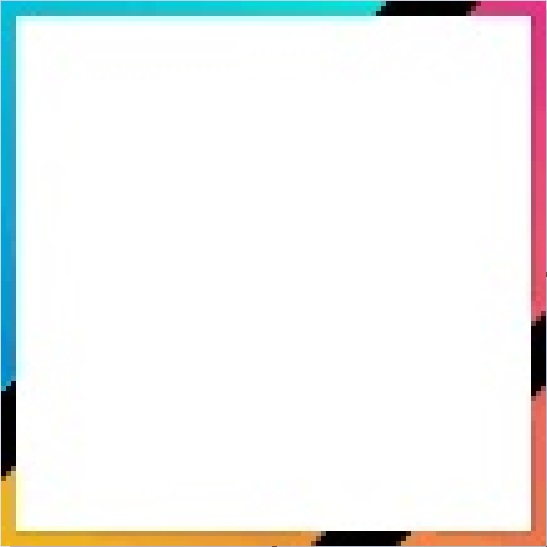
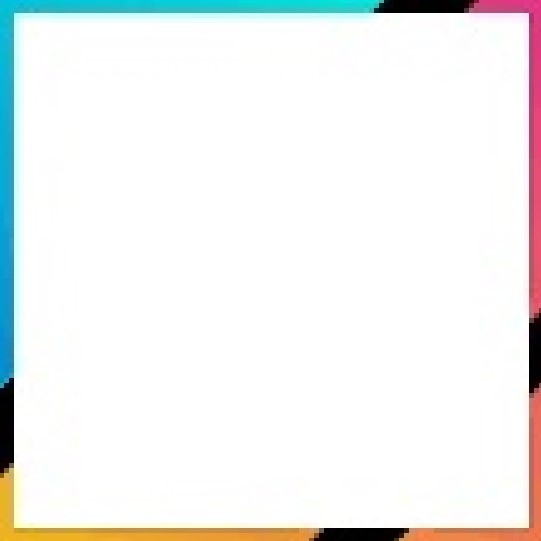
27
27

Changed region(s): [[0.0, 0.0, 1.0, 1.0]]

diff --git a/index.html b/index.html
@@ -140,9 +140,9 @@
 				<p class="titolosport">FORMULA 1</p>
 				<p align="justify">
 				<img src="images/1.jpg" align="right" >
-			Il quattro volte campione di Formula 1 - Sebastian Vettel - ha commentato il suo addio alla Ferrari dopo cinque stagioni, che sarebbero sei calcolando anche quella attuale che non è però ancora iniziata a causa dell'emergenza legata al coronavirus.
-			Ricordiamo che il pilota tedesco 32enne non è mai riuscito a salire sul tetto del mondo con la Rossa, ma è comunque stato in grado di vincere 14 gare sulle 53 totali conquistate finora nella sua carriera.
-			«La squadra e io ci siamo accorti che non c'era più il desiderio di proseguire insieme dopo il termine della corrente stagione. Gli aspetti finanziari non hanno giocato nessun ruolo in questa decisione presa di comune accordo. 
+			Il quattro volte campione di Formula 1 - Sebastian Vettel - ha com<br>mentato il suo addio alla Ferrari dopo cinque stagioni, che sarebbe<br>ro sei calcolando anche quella attuale che non è però ancora inizia<br>ta a causa dell'emergenza legata al coronavirus.
+			Ricordiamo che il pilota tedesco 32enne non è mai riuscito a salire sul tetto del mon<br>do con la Rossa, ma è comunque stato in grado di vincere 14 gare sulle 53 totali conquistate finora nella sua carriera.
+			«La squadra e <br>io ci siamo accorti che non c'era più il desiderio di proseguire ins<br>ieme dopo il termine della corrente stagione. Gli aspetti finanziari non hanno giocato nessun ruolo in questa decisione presa di comu<br>ne accordo. 
 			Quando faccio certe scelte non penso mai a queste cose e non succederà nemmeno in futuro», ha reagito proprio Vettel. «Ciò che è successo in questi ultimi mesi ha portato molti di noi a riflettere su quelle che sono le nostre priorità nella vita. 
 			Bisogna avere fantasia e adottare un nuovo approccio per riuscire a gestire al meglio una situazione che è cambiata. Mi prenderò tutto il tempo necessario per capire cosa conta davvero per me e per riflettere attentamente sul mio futuro.	  
 				</p>
@@ -168,6 +168,18 @@
  	 			La nuova voce Gioca da casa sarà presente nel menù Poké Ball di Pokémon GO e inizialmente includerà le categorie Cattura, Pacchi amicizia, Lotta, Ricerca, Compagno e Personalizza.
 				La nuova sezione offre suggerimenti per le missioni bonus di ricerca sul campo e sullo strumento Aroma che attira i Pokémon ovunque ci si trovi, oltre a consigli su come inviare e ricevere più pacchi amicizia, scoprire nuovi modi per legare con il proprio Pokémon compagno, suggerimenti per i raid da remoto, per la Lega Lotte Go e per le lotte con i propri amici da remoto.
 				La nuova sezione Gioca da casa è utile per i giocatori che si sono avvicinati di recente a Pokémon GO, ma anche come ripasso per i giocatori più navigati, visto il numero di eventi e aggiornamenti che riguardano il gioco di Niantic. In attesa della pubblicazione nell’app, la funzionalità Gioca da casa è disponibile sul sito di Pokémon GO.
+				</p>
+				<p class="titolovideogiochi">VALORANT, IL NUOVO FPS DI RIOT GAMES, HA UNA DATA DI LANCIO!</p>
+				<p align="justify">
+				<img src="images/7.jpg" align="left" >
+				Riot Games ha annunciato con un comunicato stampa la data di uscita ufficiale di Valorant, il nuovo FPS a squadre che è attualmente disponibile solo in Closed Beta.
+ 				Vi riportiamo le parole di Anna Donlon, Executive Producer del gioco in Riot Games: “Quando il gioco sarà ufficialmente disponibile, i fan dello sparatutto competitivo tattico 5v5 potranno ricominciare da zero, seguendo la stessa linea di progressione degli altri giocatori del globo.
+ 				Il nostro obiettivo è sempre stato rendere disponibile VALORANT in quasi tutto il mondo il prima possibile, e non vediamo l’ora di poterlo fare il 2 giugno.
+ 				Il lancio porta con sé standard più elevati e diverse aspettative, e continueremo a dialogare con i giocatori per onorare il nostro impegno decennale con la community globale di VALORANT. Questo è solo l’inizio del nostro viaggio, non è il traguardo.
+ 				Rinforzando ulteriormente il proprio impegno nei confronti dei giocatori, il team di VALORANT introdurrà nuovi contenuti, modalità di gioco, nuovi agenti e nuove mappe poco dopo il lancio.
+ 				Per rispondere alla crescita della community, Riot, nella sua roadmap a breve termine, ha anche inserito tra le priorità l’aggiunta di nuovi server di gioco, in modo da ridurre la latenza per i giocatori di VALORANT: questi nuovi server saranno collocati ad Atlanta, Dallas, Londra, Madrid e Varsavia.
+ 				Riot Games ha già voluto dimostrare il proprio impegno nei confronti degli appassionati di tutto il mondo dando la priorità al lancio della Closed Beta di VALORANT in diverse regioni globali, nonostante le sfide imposte dalla pandemia di COVID-19.
+ 				Valorant, nuovo gioco creato dalla stessa casa (Riot Games) che ha dato i natali al fenomeno di League of Legends su PC, è uno sparatutto in prima persona online che si pone a metà strada tra Counter-Strike e Overwatch.
 			</div>			
 		</div>
 
@@ -203,8 +215,15 @@
 		<div id="border7">
 			<a name="Attualità"></a>
 			<p class="titolo">ATTUALITA'</p>
-
-
+			<div class="clearfix">
+			<p class="titoloattualità">E' INIZIATA LA FASE 2 ANCHE PER LO SPAZIO, NASA ED ESA RIPARTONO</p>
+			<p align="justify" >
+			<img src="images/8.jpg" align="left">
+			Gli Usa si preparano al primo lancio di astronauti dal suolo americano dopo il pensionamento dello Shuttle nel 2011, con la missione della capsula Crew Dragon della SpaceX in programma il 27 maggio. Nel frattempo ha riaperto anche la base europea di Kourou, nella Guyana francese, dopo la chiusura avvenuta il 16 marzo 2020 a causa dell'epidemia da Covid-19 e si prepara al 16/mo lancio di Vega, il razzo dell'Agenzia Spaziale Europea (Esa) costruito in Italia dalla Avio. Programmato per metà giugno, il lancio porterà in orbita circa 50 satelliti in un'unica mission Anche la corsa alla spazio vive la sua fase 2 dopo il blocco dovuto alla pandemia da coronavirus.
+			La Nasa e SpaceX procedono con i preparativi nella base di Cape Canaveral in Florida. "Con SpaceX riporteremo il volo spaziale umano sul suolo americano dopo quasi un decennio. Il 27 maggio non è solo un grande giorno per i nostri team, è un grande giorno per il nostro Paese" scrive la Nasa su Twitter, lanciando l'hashtag #LaunchAmerica. Gli astronauti dell'ente spaziale americano, Bob Behnken e Doug Hurley, hanno completato l'addestramento a Houston e inizieranno la quarantena pre-lancio prevista di routine il 13 maggio. Ma di fatto i due astronauti sono già in quarantena da settimane, a causa delle misure di distanziamento per combattere la diffusione della pandemia da Covid-19.
+			Behnken sarà responsabile dell'avvicinamento e dell'aggancio della capsula con la Stazione Spaziale Internazionale, mentre Hurley sarà il comandante della navetta e sarà responsabile delle operazioni durante lancio, atterraggio e recupero. I due astronauti si erano in origine addestrati per un soggiorno di una o due settimane, ma la Nasa ha prolungato la durata del volo di prova, portandolo a un periodo compreso da uno a quattro mesi. Se andrà come da programma la missione restituirà agli Usa la capacità di lanciare equipaggi umani dal suolo americano. Dal ritiro dello Shuttle nel 2011, le navette russe Soyuz sono state infatti l'unico mezzo che ha consentito gli astronauti statunitensi di andare sulla Stazione orbitale e tornare a Terra.
+		</p>
+		</div>
 		</div>
 
 		

diff --git a/script/style.css b/script/style.css
@@ -288,7 +288,7 @@ main {
 }
 
 .titoloattualità{
-	color: #003C7F;
+	color: rgb(7, 145, 80);
 	font: 40px 	fantasy, bold;
 	text-align: center;
 	padding: 5;
@@ -399,7 +399,7 @@ main {
 	text-align: center;
 	width: auto;
 	height: auto;
-	font: 20px Cooper Black, bold, sans-serif;
+	font:  23px Rockwell Extra Bold, bold, seif;
 	margin: 30;
   }
 
@@ -421,7 +421,7 @@ main {
 	text-align: center;
 	width: auto;
 	height: auto;
-	font: 20px Cooper Black, bold, sans-serif;
+	font: 23px Rockwell Extra Bold, bold, seif;
 	margin: 30;
   }
 
@@ -439,10 +439,20 @@ main {
   #border7 {
 	border: 12px solid transparent;
 	padding: 25px;
-	border-image: url("../images/border7.jpeg") 5 stretch;
+	border-image: url("../images/border7.jpeg") 5 round;
 	text-align: center;
 	width: auto;
 	height: auto;
-	font: 20px Cooper Black, bold, sans-serif;
+	font: 23px Rockwell Extra Bold, bold, seif;
+	margin: 30;
+  }
+  #border10 {
+	border: 12px solid transparent;
+	padding: 25px;
+	border-image: url("../images/border10.jpeg") 15 round;
+	text-align: center;
+	width: auto;
+	height: auto;
+	font: 23px Rockwell Extra Bold, bold, seif;
 	margin: 30;
   }
